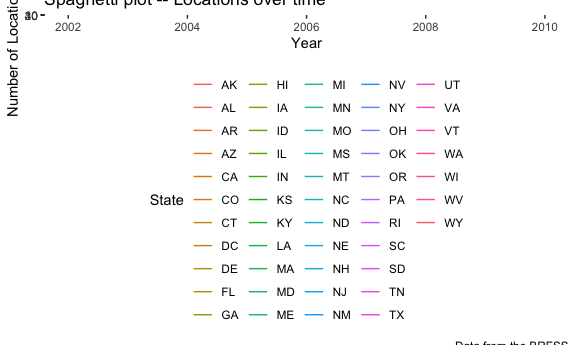
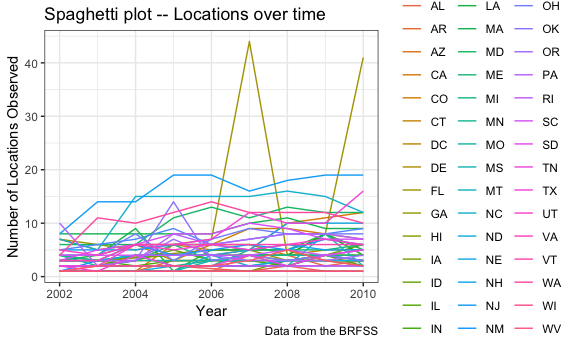
updated legend position

diff --git a/p8105_hw3_eas2297.md b/p8105_hw3_eas2297.md
@@ -88,7 +88,8 @@ brfss_clean %>%
     y = "Number of Locations Observed",
     caption = "Data from the BRFSS",
     color = "State"
-  )
+  ) + 
+  theme(legend.position = "right")
 ```
 
 <img src="p8105_hw3_eas2297_files/figure-gfm/unnamed-chunk-4-1.png" width="90%" />
